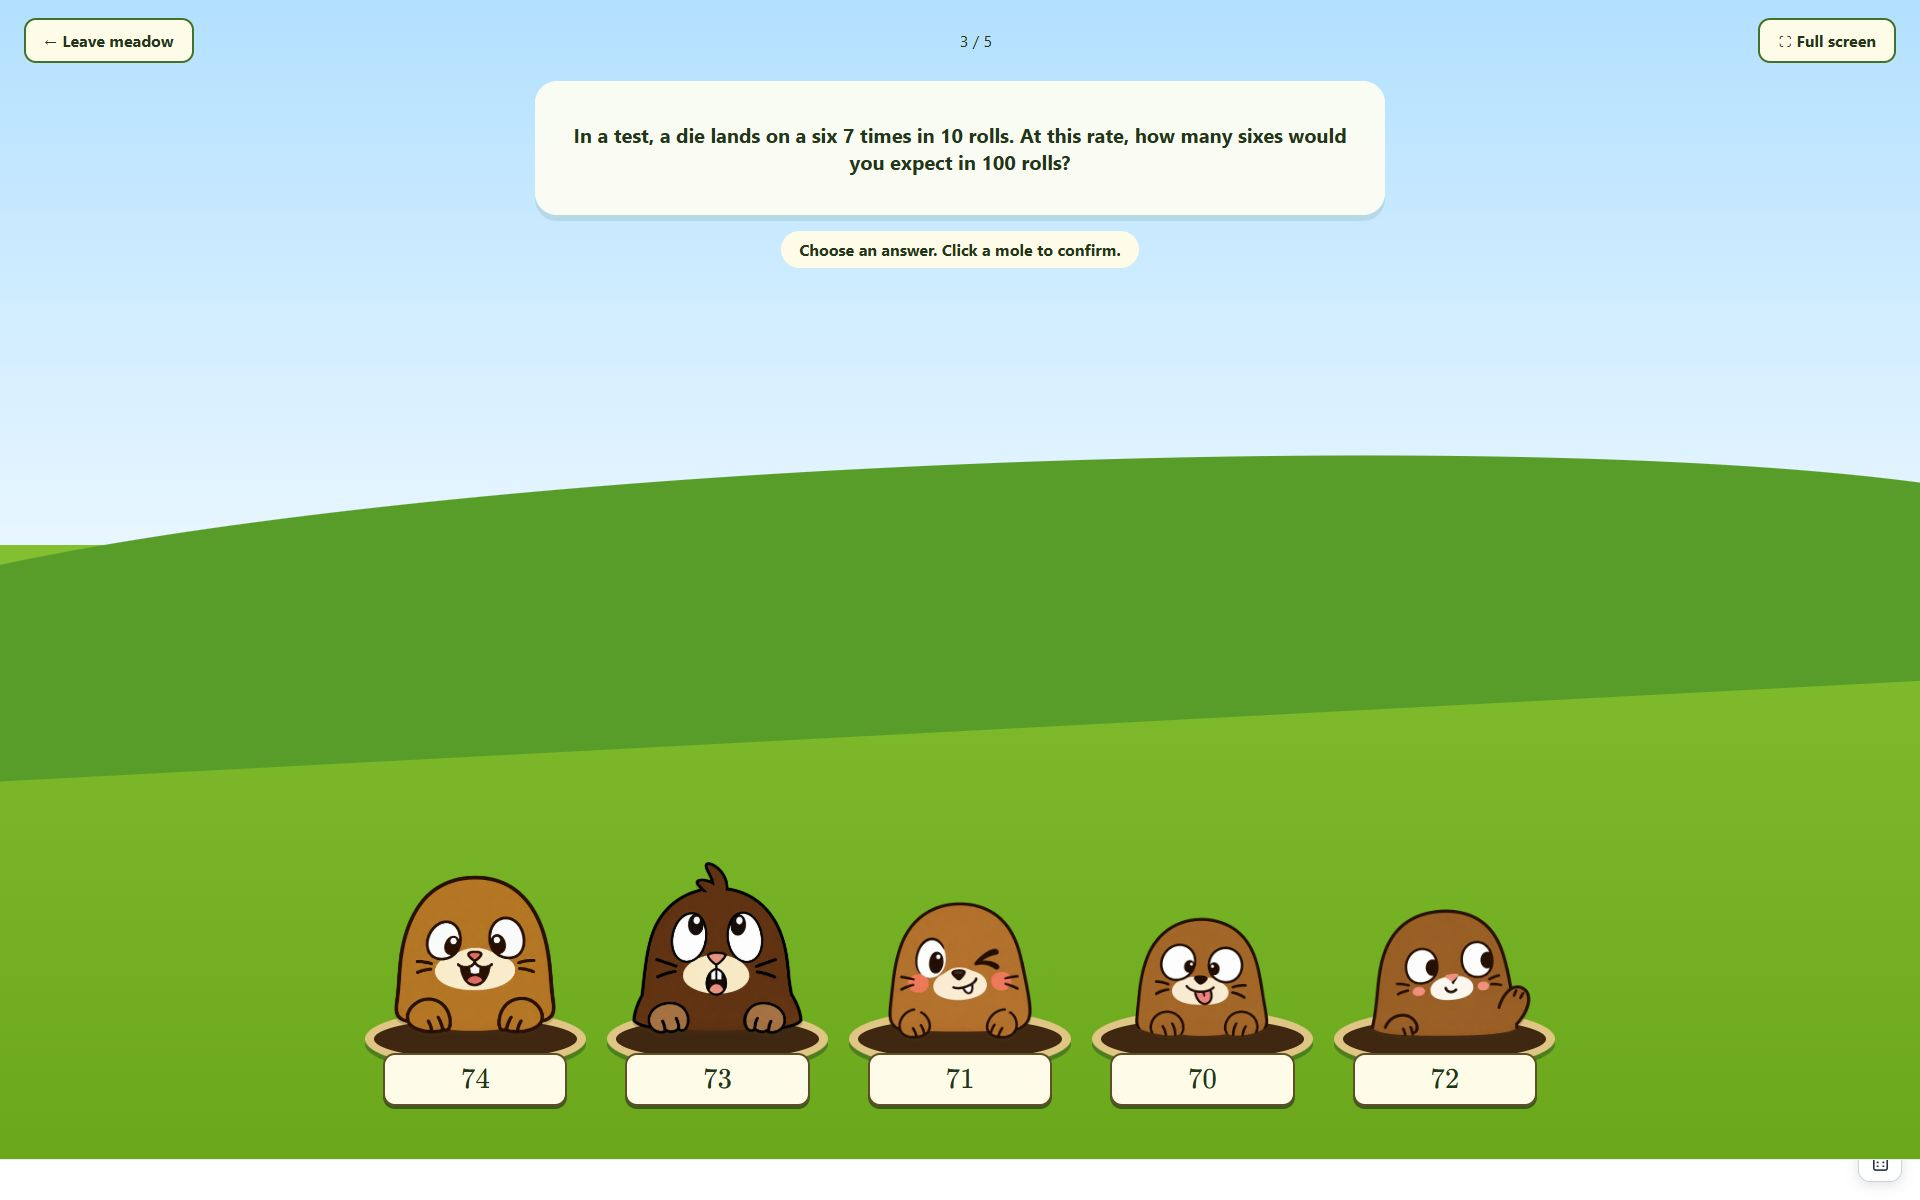
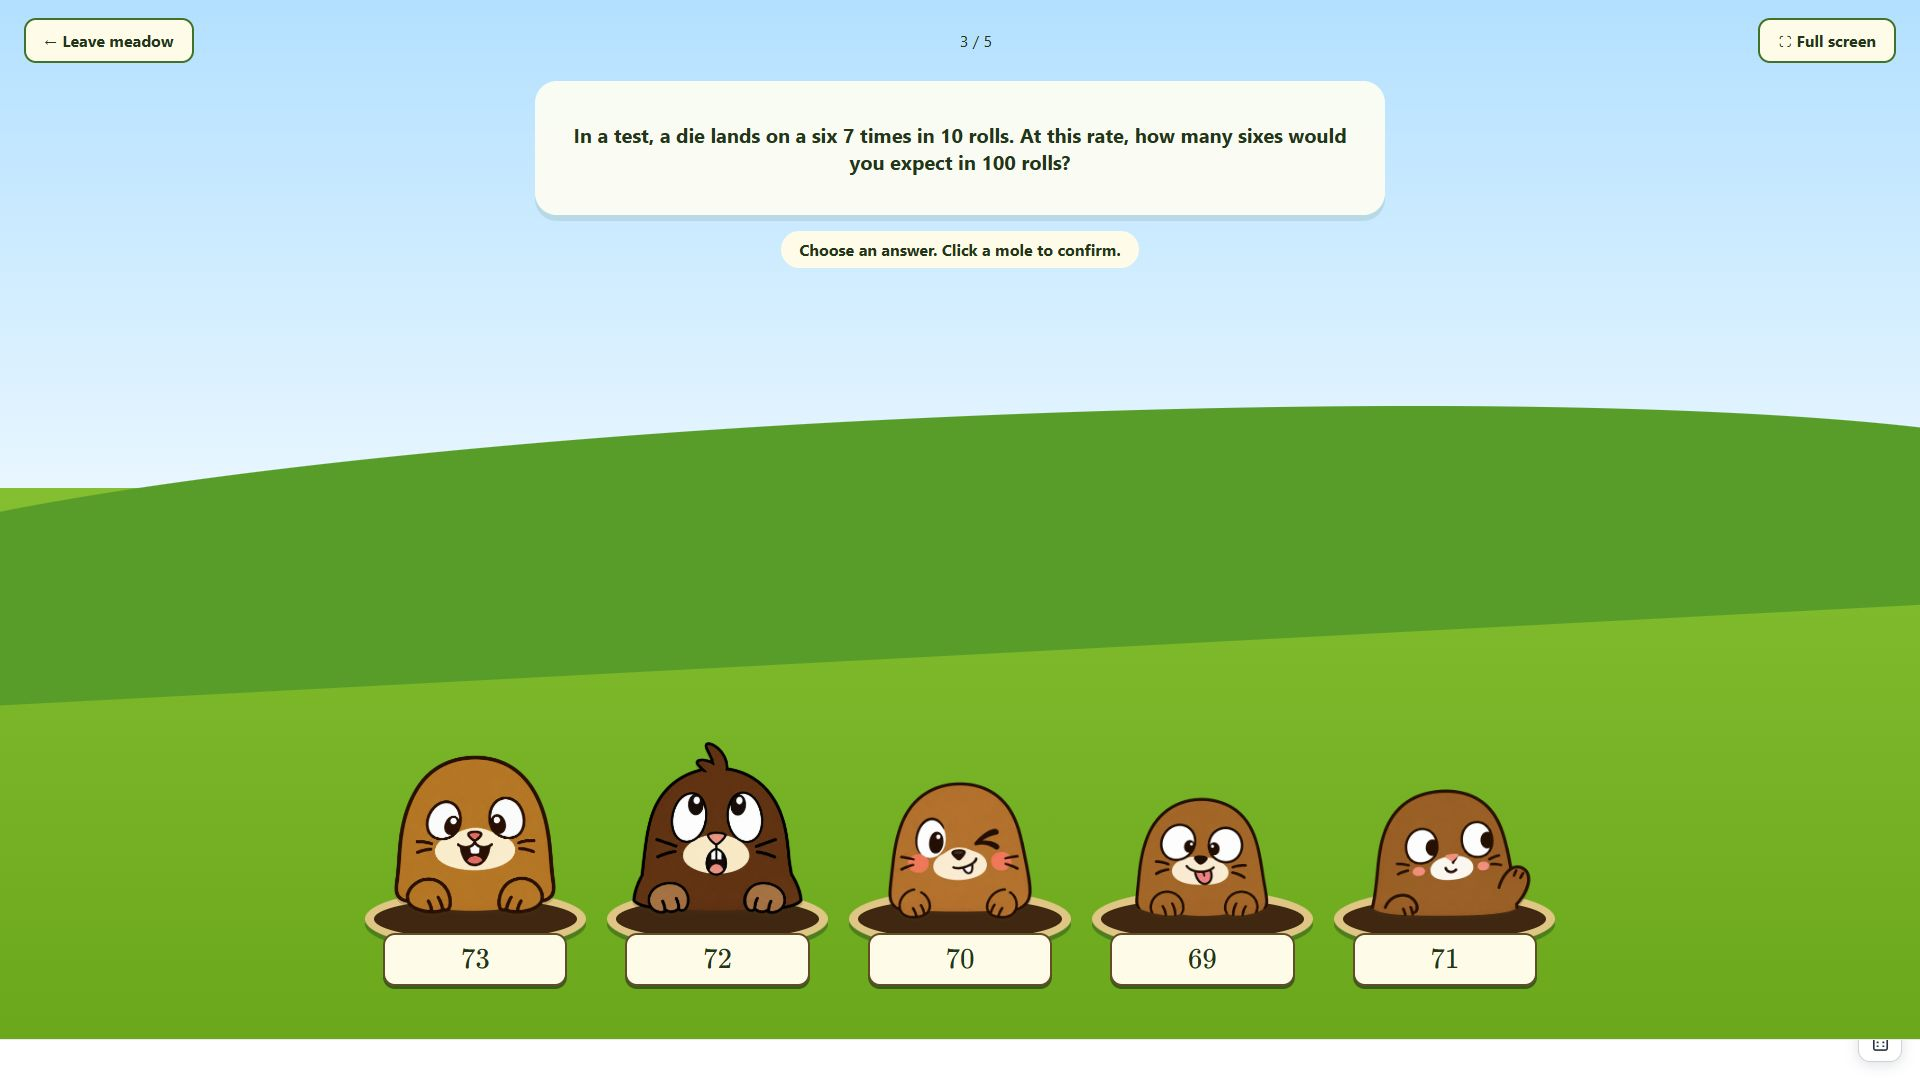
Refresh documentation screenshots and codify capture standards

diff --git a/README.md b/README.md
@@ -8,6 +8,8 @@ Live site: [chris-kc-cheng.github.io/math](https://chris-kc-cheng.github.io/math
 
 ## Screenshots
 
+Screenshots use light theme, normal zoom, and a 1920 × 1080 (16:9) browser viewport.
+
 Practice offers **Whack-a-Math**, a full-window five-choice quiz with green grass, holes, and five cute mole characters. Click an answer mole to confirm: correct choices get a hammer bonk and dizzy stars; wrong choices escape. Every answer reveals its worked explanation. Choose Captain Patty in settings for the original game.
 
 <img src="docs/images/mole-meadow.png" alt="Whack-a-Math quiz with a question above five cute answer moles in grassy holes" width="850">
@@ -18,7 +20,6 @@ The player avatar menu offers 25 choices: the name initial and 24 emojis, includ
 
 <img src="docs/images/avatar-picker.png" alt="Whack-a-Math player menu with 25 avatars including initials, animals, dinosaurs and an alien" width="700">
 
-
 Animated worked examples, including extra room for stacked fractions:
 
 <img src="docs/images/landing.png" alt="Whack-a-Math landing demo with the waving mole logo and order-of-operations example" width="560">
@@ -26,24 +27,6 @@ Animated worked examples, including extra room for stacked fractions:
 <img src="docs/images/fractions.png" alt="Fraction addition demo with clearly spaced stacked fractions" width="560">
 
 <img src="docs/images/landing-long-division.png" alt="Long division demo with the digit-aligned board and Practice navigation" width="560">
-
-Browse Grades 1–10, use the connected grade buttons, and explore visual examples:
-
-<img src="docs/images/curriculum.png" alt="Grade 1 fair sharing with progressively revealed diagrams" width="700">
-
-<img src="docs/images/tallies.png" alt="Grade 1 tallies with a fifth stroke crossing four upright strokes and a grouped grade selector" width="700">
-
-Choose a player from the badge in the top-right corner, then select a grade, topics, and round length:
-
-<img src="docs/images/practice-lobby.png" alt="Practice settings before a player is chosen for guests: blurred settings and a prompt to choose or create a player" width="700">
-
-<img src="docs/images/game-setup.png" alt="Practice settings with grade, question count, and topic choices" width="620">
-
-Every checked answer opens the explanation, with colour, an icon, and text indicating the result:
-
-<img src="docs/images/practice-correct.png" alt="Correct practice answer with a green check and an automatically displayed worked explanation" width="700">
-
-<img src="docs/images/practice-feedback.png" alt="Incorrect practice answer with a red cross and an automatically displayed worked explanation" width="700">
 
 ## GitHub Pages deployment
 
@@ -92,7 +75,6 @@ Long multiplication appears in the main slide show (23 × 14), and typing two-or
 
 The slide show's equation card (2x + 3 = 11), and typed equations such as x + 5 = 12 or 3x = 18, show inverse operations applied to both sides. Equation parsing runs before arithmetic normalization so x remains a variable. Constants must be signed integers; exact rational solutions, zero-coefficient identities, and contradictions are handled explicitly. Variables on both sides, decimal coefficients, arbitrary parentheses, powers, and fractional input constants are rejected.
 
-
 The Grade 5 library provides worked and guided variants across all 58 entries, grouped by domain in src/math/grade5/. Shared tutorial, visual, and hands-on tools live in src/curriculum/. All calculations are deterministic and bounded; personal reflections and open-ended tasks are not automatically graded. Activities illustrate curriculum skills without claiming exhaustive coverage or mastery. See [src/README.md](src/README.md) for the architecture, named question parameters, tutorial contract, and extension workflow.
 
 Grade 8 is available from the curriculum grade selector or `curriculum.html?grade=8`. Its researched hierarchy has 51 entries and rich question variants. The shared renderer, exact core and existing Grade 5 rules are reused. See [Grade 8 research](src/curriculum/data/grade-8-research.md) for official Ontario/YRDSB sources, source mapping and coverage limits.
@@ -107,8 +89,6 @@ A skill is practised in several ways so students are not just memorising one wor
 
 On the curriculum page, the printer icon at the top of the sidebar opens a dialog to build a hard-copy sheet. Choose any mix of strands and topics (or leave all unticked), the number of questions (default 10, up to 50), and whether the answer sheet should also show workings. The sheet lists numbered questions with answer lines, and the answers always come on the last page, either as a compact list or as full worked solutions with the same exact steps shown on screen. It uses the same single-answer questions as Practice (`src/worksheet-model.js`) and never repeats an identical question. **Create PDF** opens the browser print window on a light layout; choose *Save as PDF* as the destination to keep a file. No backend or PDF library is needed.
 
-<img src="docs/images/worksheet-dialog.png" alt="Exercise sheet dialog with topic checklist, number of questions, and a workings option" width="620">
-
 ## Practice
 
 `game.html` has no sign-in form of its own: players are chosen and added in the corner badge menu. A guest sees the settings blurred behind a prompt to choose or create a player first; a signed-in player goes straight to the settings. Then choose a grade, topics, and an editable round length of 1–50 questions (default 5). Returning players restore their last grade, topics, and round length. An unfinished round resumes only when those settings match. The coloured Play/Continue button sits at the right of the settings row; the question count is an editable number field.
@@ -117,31 +97,19 @@ Every valid submitted answer immediately shows the worked explanation. Correct a
 
 Captain Patty fires ketchup at Grumble the zombie after a correct answer. Wrong answers cost one of his five lives; at zero he cries, and the round can continue. At least half the questions must be correct to win. Progress and rounds save in IndexedDB by player name; there is no account or backend. Reduced-motion preferences disable shot and zombie animations. Older saved retry scores remain readable.
 
-<img src="docs/images/game.png" alt="Practice round opened with Play, showing Captain Patty, Grumble, and the current question" width="700">
-
 ## Grades 1–3
 
 Grades 1, 2, and 3 are available in the curriculum selector, Practice, and printable worksheets, with 45/46/53 expectation entries and 90/93/108 activity templates respectively. Every non-SEL expectation has at least two templates and three distinct stems, varying context, diagrams, unknowns, or reasoning—not just numbers. Primary lessons use counters, sharing strips, patterns, graphs, clocks, Canadian money, and grade-bounded arithmetic. Open-ended construction, discussion, and SEL remain unscored; games select supported numerical questions. See the [research and coverage audit](src/curriculum/data/grades-1-2-3-research.md).
 
-<img src="docs/images/primary-variants.png" alt="Grade 3 clock activity in dark mode, with a worked answer and readable clock hands" width="700">
-
 ## Player badge, statistics and grade picker
 
 Every page shows the active player as a badge in the top-right corner (a coloured initial or a chosen emoji avatar). Its menu switches player, adds a player (type a name and press Add: the badge changes to the new player at once, and no game starts) or picks an avatar; the choice is stored only on this device. Next to it, three counters summarise the player's saved Practice rounds: 🏆 perfect games, 🥈 games won (at least 80% right) and 🍐 correct answers, and hovering or focusing them shows total accuracy, questions answered, games played and the last-played date. The curriculum grade header joins the grade display and dropdown arrow on one surface: click the grade for its overview or the arrow to reveal the grade choices. Practice uses the same shared grade picker.
-
-<img src="docs/images/profile-menu.png" alt="Player menu with the Add a player name field and avatar choices" width="700">
-
-<img src="docs/images/profile-badge.png" alt="Curriculum page with the player badge, trophy, medal and pear counters, and the statistics tooltip" width="700">
 
 ## Grades 9–10
 
 Grade 9 follows the Ontario MTH1W (2021) course with all 43 specific expectations plus the process and social-emotional entries; Grade 10 follows MPM2D (2005) with quadratic relations, analytic geometry and trigonometry. They appear in the curriculum selector, Practice and printable worksheets, with 131 and 116 activity templates. Every non-SEL entry has at least two templates and six distinct stems, built from one registry of 68 teaching rules and 448 styles: calculations, word problems, tables, graphs, checks and judgements. Graphs appear in the worked steps so they never give the answer away. Research, modelling and reporting entries are guided discussions, not scored. See [Grades 9–10 research](src/curriculum/data/grades-9-10-research.md).
 
 Calculator use is deliberate: trigonometry, powers, scientific notation, compound interest and the quadratic formula open it; expanding, factoring and simplifying do not. Trigonometry walkthroughs begin with the manufacturer's angle-mode check (MODE, enter on DEG, clear) and use the multi-tap sin, cos and tan keys (press a key twice for its inverse).
-
-<img src="docs/images/grade10-parabola.png" alt="Grade 10 parabola question with its graph shown after the worked steps" width="700">
-
-<img src="docs/images/grade10-trig-calculator.png" alt="Grade 10 right-triangle question with a labelled triangle and the 36X Pro keypad showing sin, cos and tan" width="850">
 
 ## Calculator and visual demos
 
@@ -159,11 +127,7 @@ The landing demo now has ten examples. `?slide=6` reads a clock, `?slide=7` appl
 
 <img src="docs/images/calculator-tutorial.png" alt="Percentage demo with an optional 36X Pro-style calculator" width="850">
 
-<img src="docs/images/calculator-learning.png" alt="Dark-mode Pythagorean explanation with calculator key steps and result five" width="850">
-
 <img src="docs/images/calculator-scientific.png" alt="Scientific-notation demo with the shared calculator" width="850">
-
-<img src="docs/images/calculator-practice.png" alt="Practice automatically shows a suitable calculator and a key walkthrough after the answer" width="850">
 
 The demo and practice question panes stay in the same position when the calculator opens or closes. Desktop space reservation applies only to the curriculum page.
 

diff --git a/CLAUDE.md b/CLAUDE.md
@@ -13,7 +13,7 @@ This repo was built by ChatGPT (see `AGENTS.md` and `README.md` for the product 
    - The first entry in `lesson.steps` ("Read the question.") is a hidden placeholder: `practice-view.js` starts playback at index 1. Never count it as visible content.
    - Show an answer in the form the question uses (decimals stay decimals; whole-number division shows quotient and remainder). No stray parentheses around positive numbers.
 3. **Explanation quality (textbook standard).** Name the actual digits and numbers ("the digit to the right is 3, which is less than 5, so round down") instead of quoting abstract rules. Use "round up/down", not "away from/toward zero", below Grade 7. Singular/plural and grammar must be right. A lesson must answer exactly what its prompt asks, and its `verification` must check that same answer.
-4. **Docs and screenshots.** Follow "Keep docs in sync" in `AGENTS.md`: when a change alters the UI or behavior, update `README.md`, `src/README.md`, `AGENTS.md`, and retake the affected `docs/images/*.png` (see the 2026-10-29 log for the method). Read `AGENTS.md` at the start of every review.
+4. **Docs and screenshots.** Follow "Keep docs in sync" in `AGENTS.md`: when a change alters the UI or behavior, update `README.md`, `src/README.md`, `AGENTS.md`, and retake the affected `docs/images/*.png` (see the 2026-10-29 log for the method). Read `AGENTS.md` at the start of every review. Apply its screenshot standard: use light theme (dark theme only when explicitly requested), default to a verified 1920 × 1080 (16:9) CSS-pixel viewport at 100% zoom, inspect for compressed or clipped UI, and remove stale screenshots and references.
 5. **Tests.** Every fix gets a regression test in `src/curriculum/review.test.js`. `src/math/fixtures/pre-refactor-behavior.json` hashes full lesson output: when wording changes deliberately, regenerate only the entries that changed and confirm the changed IDs are the ones you edited.
 
 ## Review log
@@ -97,3 +97,5 @@ Curriculum header follow-up: grade overview, skill count and dropdown arrow shar
 Branding follow-up: renamed the project, page titles, manifest, worksheet title and game choice to Whack-a-Math; preserved browser storage identifiers. Avatar picker now has 25 choices including the initial, dinosaurs and an alien. Browser verified the brand and avatar count; landing and avatar screenshots refreshed.
 
 Mascot follow-up: selected fifth waving mole for the landing logo, ICO favicon, Apple touch icon and regular/maskable PWA icons. Removed previous mascot artwork and source references; branding packaging trims transparent margins and keeps maskable safe padding. Refreshed landing/demo screenshots.
+
+Screenshot standard applied: all 11 README screenshots retaken in light theme using a verified 1920 × 1080 browser viewport, with paused worked examples and current branding. Checked PNG format, wide 16:9 output and README links; captures with browser scrollbars export at 1905 × 1072 without resizing. Removed outdated captures and references.

diff --git a/AGENTS.md b/AGENTS.md
@@ -33,6 +33,15 @@ Applies to every agent working here (ChatGPT, Claude, others). When a change aff
 4. Run `npm test` and `npm run build` before committing. Never commit secrets.
 5. `CLAUDE.md` holds the reviewer role and review log. A reviewer pass should also confirm the docs and screenshots match the app.
 
+## Screenshot standard (agent memory)
+
+- Use **light theme** for all documentation screenshots. Explicitly select light theme before capture rather than inheriting the system or saved preference. Do not use dark-theme screenshots unless the user specifically requests one.
+- Capture documentation screenshots at a wide 16:9 browser viewport: **1920 × 1080 CSS pixels** by default; **1600 × 900** is acceptable. Set and verify the viewport before capturing; do not rely on a narrow app side panel or resize a compressed screenshot afterward.
+- Use normal browser zoom (100%). Ensure the main pane, sidebar, calculator and controls have enough room, with readable text, no unintended wrapping, clipping, overlap or horizontal scrollbars. Inspect the actual image before saving it.
+- Prefer viewport screenshots for README images. Full-page captures are appropriate only when the content needs them; keep the same wide viewport. Capture mobile layouts separately and label them explicitly rather than using them as the desktop example.
+- Wait for fonts, images and formula rendering to finish. Pause playback at a useful completed step, and show the relevant feature clearly. Avoid loading states, empty explanations and accidental menus.
+- Keep only current screenshots referenced by documentation. When branding or layout changes, replace affected images and update accurate alt text; remove outdated screenshots and their references instead of retaining a historical gallery.
+
 ## Calculator teaching memory
 
 The shared calculator is a bounded 36X Pro key-entry subset with a custom seven-segment LED-style display. Verify additional sequences against the manufacturer's official guidebook before extending it. Keep exact arithmetic in the common rational core, label approximations, and reject non-real/unsupported entries. Contextual recommendations and visible function keys belong in `calculator/plans.js`; do not add one calculator per activity or automatically fill a learner's answer. Basic primary skills stay uncluttered; suitable learning/practice explanations have independent, colour-coded key playback. Landing visual demos must reuse real implemented curriculum lessons. Pythagoras is the intended triangle topic, not trigonometry.
